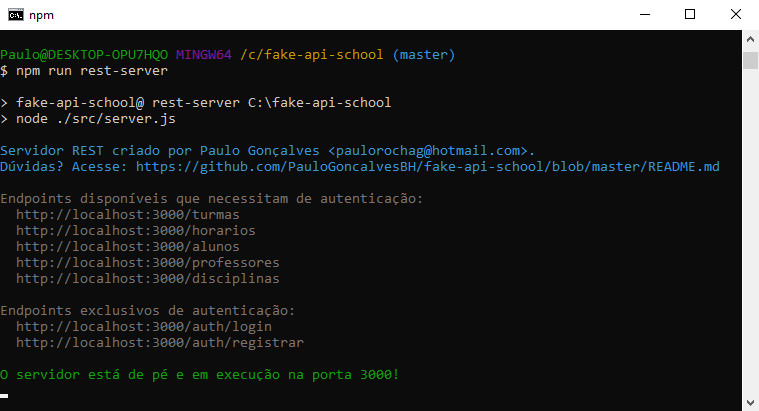
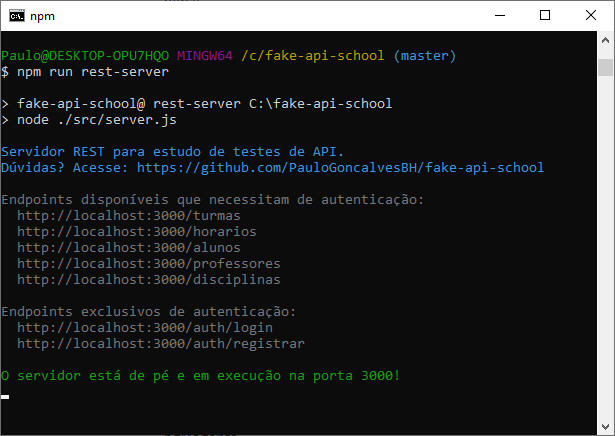
Change welcome message of console

Changed region(s): [[0.0, 0.0, 1.0, 1.0], [0.0, 0.0, 0.0927, 0.0876]]

diff --git a/src/server.js b/src/server.js
@@ -88,7 +88,7 @@ server.use(router);
 server.listen(porta, () => {
   overwriteDataFilesWithbackupFiles();
   console.log(
-    "Servidor REST criado por Paulo Gonçalves <paulorochag@hotmail.com>.\nDúvidas? Acesse: https://github.com/PauloGoncalvesBH/fake-api-school/blob/master/README.md"
+    "Servidor REST para estudo de testes de API.\nDúvidas? Acesse: https://github.com/PauloGoncalvesBH/fake-api-school"
       .cyan
   );
 
